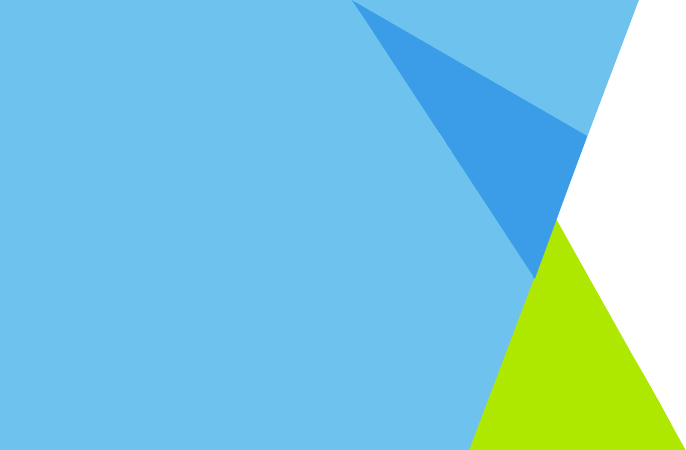
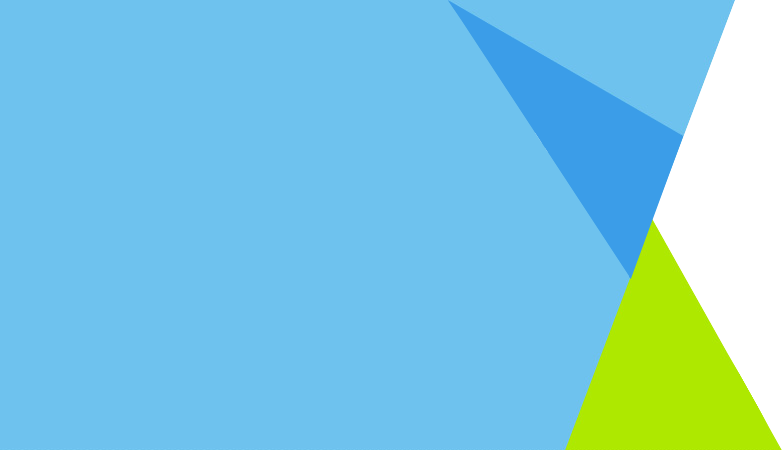
Fix header, css

Changed region(s): [[0.5204, 0.0, 0.949, 1.0], [0.949, 0.84, 0.9796, 0.9333], [0.9796, 0.9333, 1.0, 0.9956]]

diff --git a/public_html/html/corporate/css/style.less b/public_html/html/corporate/css/style.less
@@ -15,7 +15,7 @@
 @sub-title-font-size: 1.714em;
 @sub-sub-title-font-size: 1.286em;
 @description-font-size: 1em;
-
+@line-height: 190%;
 
 //For smartphone
 @media screen and (max-width : 820px) {
@@ -577,23 +577,25 @@ h1 {
     background: url('../img/4.png');
     background-repeat: no-repeat;
     padding-top: 50px;
-    padding-bottom: 50px;
+    /*padding-bottom: 50px;*/
     .why-text-left{
         color: #fff;
         h2{
-            font-size:@title-font-size;
+            font-size: 2.8em;
         }
         .text-small{
-            font-size:@description-font-size;
+            font-size: 1.3em;
         }
     }
     .why-text-right{
         color: black;
         h3{
             font-size:@sub-title-font-size;
+            line-height: @line-height;
         }
         .text-small{
             font-size:@description-font-size;
+            line-height: @line-height;
         }        
         /*padding-right: 40%;*/
     }
@@ -792,7 +794,7 @@ h1 {
     }
 }
 .header-articles {
-    background: #DADADA;
+    background: #f2f2f2;
     padding-top: 50px;
     padding-bottom: 50px;
     h3 {
@@ -803,7 +805,7 @@ h1 {
         font-weight: 700;
     }
     p{
-        font-size: @description-font-size;
+        font-size: calc(@description-font-size - 0.1);
     }
     img {
         margin-bottom: 15px;
@@ -1029,18 +1031,18 @@ h1 {
             height: 145px;
             .phone-text{
                 position: absolute;
-                font-size: 44px;
+                font-size: 33px;
                 font-weight: 500;
                 top: 39%;
-                left: 53%;
+                left: 59%;
                 transform: translate(-50%, -50%);
                 color: #E11B73;
                 white-space: nowrap;
             }
             .phone-img{
                 position: absolute;
-                padding-top: 6%;
-                left: 8%;
+                padding-top: 9%;
+                left: 16%;
                 width: 10%;
             }
             .detail-text{

diff --git a/public_html/html/corporate/css/service-page.less b/public_html/html/corporate/css/service-page.less
@@ -1,3 +1,33 @@
+.contact-width{
+    max-width: 870px;
+}
+
+.reason-why-1{
+    p, span{
+        line-height: 180%;
+        font-size: @description-font-size;
+    }
+    span.text-4{
+        padding: 0 18px;
+        text-align: center;
+        display: block;
+    }
+}
+
+ul.top-recruit-lst{
+    list-style-type: none;
+    position: absolute;
+    width: 250px;
+    right: 5%;
+    margin-left: 0;
+    padding-left: 0;
+    z-index: 999;
+    li{
+        display: inline-block;
+        padding: 0 5px;
+    }
+}
+
 .service-info{
     article.module{
         position: relative;

diff --git a/public_html/wp-content/themes/eva2015/index.php b/public_html/wp-content/themes/eva2015/index.php
@@ -65,46 +65,47 @@ if ($available_why == 1) {
     ?>
     <div class="container-fluid header-why">
         <div class="row">
-            <div class="col-md-2 hidden-xs"></div>
-            <div class="col-md-2 hidden-xs why-text-left text-left">
-                <div class="row-gap-big"></div>
-                <h2>Why is<br> Evolable Asia<br> chosen<br> in Vietnam?</h2>
-                <div class="text-small">
-                    なぜエボラブルアジアがベトナムのラボ型開発で選ばれるのか？
+            <div class="container">
+                <div class="col-md-4 hidden-xs why-text-left text-left">
+                    <div class="row-gap-big"></div>
+                    <h2>Why is<br> Evolable Asia<br> chosen<br> in Vietnam?</h2>
+                    <div class="text-small">
+                        なぜエボラブルアジアが<br/>ベトナムのラボ型開発で<br/>選ばれるのか？
+                    </div>
                 </div>
-            </div>
-            <div class="col-xs-12 visible-xs why-text-left text-center">
-                <h2>Why is Evolable Asia<br> chosen in Vietnam?</h2>
-                <div class="text">
-                    なぜエボラブルアジアがベトナムのラボ型開発で選ばれるのか？
+                <div class="col-xs-12 visible-xs why-text-left text-center">
+                    <h2>Why is Evolable Asia<br> chosen in Vietnam?</h2>
+                    <div class="text">
+                        なぜエボラブルアジアが<br/>ベトナムのラボ型開発で<br/>選ばれるのか？
+                    </div>
                 </div>
-            </div>
-            <div class="col-md-6 hidden-xs why-text-right">
-                <div class="row-gap-big"></div>
-                <h3>Evolable Asiaは、御社の開発チームをベトナムでワールドワイド級の人材で迅速に構築します。</h3>
-                <div class="row-gap-small"></div>
-                <div class="text-small">2012年の設立から、今では日系最大規模のラボ型オフショア開発としてさらに成長を続けるEvolable Asia。その成長の背景には、「高品質な人材の提供」と「安心のサポートシステム」があります。Evolable Asiaでは質が高く幅広い技術者を豊富に確保し、最適な環境で終業してもらえるノウハウと実績を持っています。また日本人ラボマネージャーが常駐し、初めてベトナム進出する企業も、より安心して業務をスタートできるようなサポートシステムが整っています。詳しくはこちらのページをご覧ください。
+                <div class="col-md-8 hidden-xs why-text-right">
+                    <div class="row-gap-big"></div>
+                    <h3>Evolable Asiaは、御社の開発チームをベトナムでワールドワイド級の人材で迅速に構築します。</h3>
+                    <div class="row-gap-small"></div>
+                    <div class="text-small">2012年の設立から、今では日系最大規模のラボ型オフショア開発としてさらに成長を続けるEvolable Asia。その成長の背景には、「高品質な人材の提供」と「安心のサポートシステム」があります。Evolable Asiaでは質が高く幅広い技術者を豊富に確保し、最適な環境で終業してもらえるノウハウと実績を持っています。また日本人ラボマネージャーが常駐し、初めてベトナム進出する企業も、より安心して業務をスタートできるようなサポートシステムが整っています。詳しくはこちらのページをご覧ください。
+                    </div>
+                    <div class="">
+                        <a href="<?php echo home_url('company/reason/') ?>">
+                            <button class="btn btn-slim ">
+                                <i class="fa fa-angle-right"></i>エボラブルアジアが選ばれる理由
+                            </button>
+                        </a>
+                    </div>
                 </div>
-                <div class="text-center">
-                    <a href="<?php echo home_url('company/reason/') ?>">
-                        <button class="btn btn-slim ">
-                            <i class="fa fa-angle-right"></i>エボラブルアジアが選ばれる理由
-                        </button>
-                    </a>
-                </div>
-            </div>
-            <div class="col-xs-12 visible-xs why-text-right text-center">
-                <div class="row-gap-medium"></div>
-                <h2>Evolable Asiaは、御社の開発チームをベトナムでワールドワイド級の人材で迅速に構築します。</h2>
-                <div class="row-gap-small"></div>
-                <div class="text-small">2012年の設立から、今では日系最大規模のラボ型オフショア開発としてさらに成長を続けるEvolable Asia。その成長の背景には、「高品質な人材の提供」と「安心のサポートシステム」があります。Evolable Asiaでは質が高く幅広い技術者を豊富に確保し、最適な環境で終業してもらえるノウハウと実績を持っています。また日本人ラボマネージャーが常駐し、初めてベトナム進出する企業も、より安心して業務をスタートできるようなサポートシステムが整っています。詳しくはこちらのページをご覧ください。
-                </div>
-                <div class="text-center">
-                    <a href="<?php echo home_url('company/reason/') ?>">
-                        <button class="btn btn-slim ">
-                            <i class="fa fa-angle-right"></i>エボラブルアジアが選ばれる理由
-                        </button>
-                    </a>
+                <div class="col-xs-12 visible-xs why-text-right text-center">
+                    <div class="row-gap-big"></div>
+                    <h2>Evolable Asiaは、御社の開発チームをベトナムでワールドワイド級の人材で迅速に構築します。</h2>
+                    <div class="row-gap-small"></div>
+                    <div class="text-small">2012年の設立から、今では日系最大規模のラボ型オフショア開発としてさらに成長を続けるEvolable Asia。その成長の背景には、「高品質な人材の提供」と「安心のサポートシステム」があります。Evolable Asiaでは質が高く幅広い技術者を豊富に確保し、最適な環境で終業してもらえるノウハウと実績を持っています。また日本人ラボマネージャーが常駐し、初めてベトナム進出する企業も、より安心して業務をスタートできるようなサポートシステムが整っています。詳しくはこちらのページをご覧ください。
+                    </div>
+                    <div class="text-center">
+                        <a href="<?php echo home_url('company/reason/') ?>">
+                            <button class="btn btn-slim ">
+                                <i class="fa fa-angle-right"></i>エボラブルアジアが選ばれる理由
+                            </button>
+                        </a>
+                    </div>
                 </div>
             </div>
         </div>
@@ -387,7 +388,8 @@ if ($available_new == 1) {
                 if ($loop->have_posts()):
                     $num_posts = count($loop->posts);
                     ?>
-                    <?php while ($loop->have_posts()): $loop->the_post(); 
+                    <?php
+                    while ($loop->have_posts()): $loop->the_post();
                         $postId = get_the_ID();
                         $terms = get_the_terms($postId, 'news-type');
                         $categories = array();
@@ -396,9 +398,7 @@ if ($available_new == 1) {
                                 $categories[] = $term->name;
                             }
                         }
-
-                        
-                    ?>
+                        ?>
                         <div class="col-xs-12 col-md-4 no-padding-lr news-main-block wow fadeInUp" data-wow-delay="<?php echo $time2; ?>s">
                             <a class="news-hover" href="<?php the_permalink() ?>">
                                 <img src="<?php echo get_field('image') ?>" alt="" style="width:100%; height:auto;">
@@ -408,7 +408,7 @@ if ($available_new == 1) {
                                     <div class="news-main-title">
                                         <span class="date-text"><?php the_date('Y.m.d'); ?></span>
                                         <?php if (count($categories) > 0) { ?>
-                                        <span class="categories-text <?php echo $class_category[$term->name] ?>"><?php echo implode(', ', $categories); ?></span>
+                                            <span class="categories-text <?php echo $class_category[$term->name] ?>"><?php echo implode(', ', $categories); ?></span>
                                         <?php } ?>
                                     </div>
                                     <h2 class="intro more"><?php the_title(); ?></h2>
@@ -439,49 +439,49 @@ if ($available_new == 1) {
 $available_blog = get_blog_div();
 if ($available_blog == 1) {
     ?>
-<div class="container-fluid block-center header-news home-blog-bg" style="display:none">
-        <h1 class="text-center"><?php echo get_blog_text(); ?></h1>
-        <div class="container">
-            <div class="row">
-                <?php
-                $time3 = 0;
-                $args = array(
-                    'post_type' => 'blog',
-                    'posts_per_page' => 3,
-                    'orderby' => array('date' => 'DESC'),
-                );
-                $loop = new WP_Query($args);
-                ?>
-                <?php
-                if ($loop->have_posts()):
-                    $num_posts = count($loop->posts);
-                    ?>
-                    <?php while ($loop->have_posts()): $loop->the_post(); ?>
-                        <div class="col-xs-12 col-md-4 no-padding-lr news-main-block wow fadeInUp" data-wow-delay="<?php echo $time3; ?>s">
-                            <a class="news-hover" href="<?php echo get_field('link') ?>">
-                                <img src="<?php echo get_field('image') ?>" alt="" class="img-responsive full-width">
-                                <div class="caption-eva" ></div>
-                                <span class="overlay"></span>
-                                <div class="caption full-width left">
-                                    <div class="news-main-title">
-                                        <span class="date-text"><?php the_date('Y.m.d'); ?></span><span class="categories-text">demo</span>
+    <div class="container-fluid block-center header-news home-blog-bg" style="display:none">
+            <h1 class="text-center"><?php echo get_blog_text(); ?></h1>
+            <div class="container">
+                <div class="row">
+    <?php
+    $time3 = 0;
+    $args = array(
+        'post_type' => 'blog',
+        'posts_per_page' => 3,
+        'orderby' => array('date' => 'DESC'),
+    );
+    $loop = new WP_Query($args);
+    ?>
+    <?php
+    if ($loop->have_posts()):
+        $num_posts = count($loop->posts);
+        ?>
+        <?php while ($loop->have_posts()): $loop->the_post(); ?>
+                                    <div class="col-xs-12 col-md-4 no-padding-lr news-main-block wow fadeInUp" data-wow-delay="<?php echo $time3; ?>s">
+                                        <a class="news-hover" href="<?php echo get_field('link') ?>">
+                                            <img src="<?php echo get_field('image') ?>" alt="" class="img-responsive full-width">
+                                            <div class="caption-eva" ></div>
+                                            <span class="overlay"></span>
+                                            <div class="caption full-width left">
+                                                <div class="news-main-title">
+                                                    <span class="date-text"><?php the_date('Y.m.d'); ?></span><span class="categories-text">demo</span>
+                                                </div>
+                                                <h2 class="intro more"><?php the_title(); ?></h2>
+                                            </div>
+                                        </a>
                                     </div>
-                                    <h2 class="intro more"><?php the_title(); ?></h2>
-                                </div>
-                            </a>
-                        </div>
-                        <?php $time3+= 0.5; ?>
-                    <?php endwhile; ?>
-                <?php endif; ?>
-                <?php wp_reset_postdata() ?>
-            </div>
-            <div class="row">
-                <div class="col-xs-12 col-md-12 text-center">
-                    <button class="btn btn-slim "><span class="glyphicon glyphicon-plus"></span>View All</button>
+            <?php $time3+= 0.5; ?>
+        <?php endwhile; ?>
+    <?php endif; ?>
+    <?php wp_reset_postdata() ?>
+                </div>
+                <div class="row">
+                    <div class="col-xs-12 col-md-12 text-center">
+                        <button class="btn btn-slim "><span class="glyphicon glyphicon-plus"></span>View All</button>
+                    </div>
                 </div>
             </div>
         </div>
-    </div>
     <?php
 }
 ?>

diff --git a/public_html/wp-content/themes/eva2015/header.php b/public_html/wp-content/themes/eva2015/header.php
@@ -28,6 +28,13 @@
                 <div class="container">
                     <div class="row">
                         <div class="col-md-12 text-center navbar-collapse collapse visible-md">
+                            <div class="pull-right" style="position: relative;">
+                                <ul class="top-recruit-lst">
+                                    <li>Recruit for</li>
+                                    <li><a href="<?php echo get_site_url(2) ?>">Japanese</a></li>
+                                    <li><a href="http://jobs.evolable.asia">Vietnamese</a></li>
+                                </ul>
+                            </div>
                             <ul class="nav navbar-nav">
                                 <li><a href="<?php echo bloginfo('url') ?>">Home</a></li>
                                 <li><a href="<?php echo bloginfo('url') ?>/company/">About Evolable Asia</a></li>
@@ -39,7 +46,6 @@
                                 </li>
                                 <li><a href="<?php echo bloginfo('url') ?>/service">サービス</a></li>
                                 <li><a href="<?php echo bloginfo('url') ?>/news">ニュース</a></li>
-                                <li><a href="<?php echo get_site_url(2) ?>">Recruit</a></li>
                                 <li>
                                     <a href="<?php echo bloginfo('url') ?>/contact/">お問い合わせ</a>
                                 </li>
@@ -63,7 +69,9 @@
                                         <li><a href="<?php echo bloginfo('url') ?>/company/reason">選ばれる理由</a></li>
                                         <li><a href="<?php echo bloginfo('url') ?>/service">サービス</a></li>
                                         <li><a href="<?php echo bloginfo('url') ?>/news">ニュース</a></li>
-                                        <li><a href="<?php echo get_site_url(2) ?>">Recruit</a></li>
+                                        <li>Recruit for</li>
+                                        <li><a href="<?php echo get_site_url(2) ?>">Japanese</a></li>
+                                        <li><a href="http://jobs.evolable.asia">Vietnamese</a></li>
                                         <li><a href="<?php echo bloginfo('url') ?>/contact/">お問い合わせ</a></li>
                                     </ul>
                                 </div>

diff --git a/public_html/wp-content/themes/eva2015/page-secondary.php b/public_html/wp-content/themes/eva2015/page-secondary.php
@@ -163,7 +163,7 @@ get_header();
 	    <div class="container center secondary-6-1">
 	        <div class="row" style="max-width:680px;margin:auto;">
 	            <div class="col-xs-12 col-sm-12 col-md12 col-lg-12">        
-	                <p><span class="secondary-6-number">1</span>クオリティの高い運営を行え、ユーザーの<span class="secondary-6-underline">アクティブ数・課金率を維持!</span></p>
+	                <p><span class="secondary-6-number">1</span>品質の高い運営を行え、ユーザーの<span class="secondary-6-underline">アクティブ数・課金率を維持!</span></p>
 	                <p><span class="secondary-6-number">2</span>特化した専任チームなので、<span class="secondary-6-underline">迅速で正確な対応</span>が行える!</p>
 	                <p><span class="secondary-6-number">3</span>人員コストは日本で運営する場合に比べ<span class="secondary-6-underline">30～40%削減!</span></p>
 	                <p><span class="secondary-6-number">4</span>日本では<span class="secondary-6-underline">新規事業に人員を配置</span>でき、新たな売り上げも!</p>

diff --git a/public_html/wp-content/themes/eva2015/part-contact.php b/public_html/wp-content/themes/eva2015/part-contact.php
@@ -1,5 +1,5 @@
 <div class="container-fluid header-contact">
-    <div class="container">
+    <div class="container contact-width">
         <div class="row">
             <div class="col-xs-12 no-padding-lr text-center">
                 <div class="caption full-width center-block contact-info">
@@ -10,7 +10,7 @@
                 </div>
             </div>
             <div class="col-xs-12 no-padding-lr footer-contact">
-                <div class="container">
+                <div class="container contact-width">
                     <did class="row">
                         <div class="col-xs-6 col-md-6 no-padding-lr left phone">
                             <div class="container">
